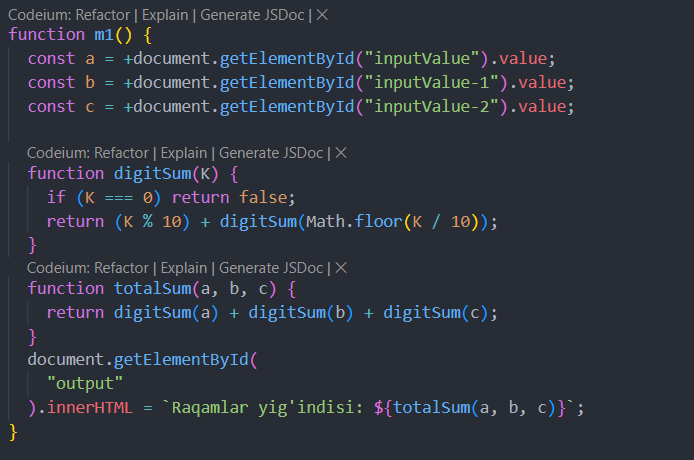
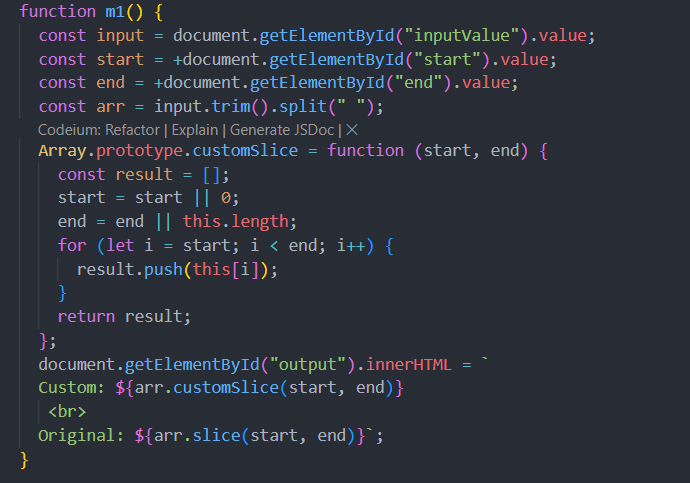
Done

diff --git a/index.html b/index.html
@@ -41,7 +41,6 @@
           <a href="#second">Second</a>
           <a href="#third">Third</a>
           <a href="#fourth">Fourth</a>
- 
         </nav>
         <div class="btns button-85">
           <a
@@ -60,15 +59,13 @@
       <section id="first">
         <div id="content">
           <h2 class="limited-line">
-            <span>Recur10.</span>. K sonining raqamlar yig'indisini takrorlanish
-            operatoridan foydalanmagan holda hisoblovchi butun toifadagi
-            DigitSum(K) rekursiv funksiyasi tuzilsin. Shu funksiya yordamida
-            berilgan 3 ta butun sonning raqamlari yig'indisi topilsin.
+            <span>Masala1.</span>Arrayga yana custom metod qo'shing. Vazifasi
+            Array.slice bilan bir xil bo'lsin. Custom yozilishi shart.
           </h2>
           <br />
-          <input id="inputValue" type="number" placeholder="1 - son" />
-          <input id="inputValue-1" type="number" placeholder="2 - son" />
-          <input id="inputValue-2" type="number" placeholder="3 - son" />
+          <input id="inputValue" type="text" placeholder="Ex: Hi there hello" />
+          <input id="start" type="text" placeholder="start" />
+          <input id="end" type="text" placeholder="end" />
           <button class="button-85" role="button" onclick="m1()">
             Hisoblash
           </button>
@@ -92,13 +89,11 @@
       <section id="second">
         <div id="content">
           <h2 class="limited-line">
-            <span>Masala-2 </span>
-            Fibonachi sonlari ketma-ketligidagining N - elementni hisoblovchi
-            butun toifadagi Fib1(N) rekursiv funksiya tuzilsin (N butun son): F
-            * 1 = F * 2 = 1 , FK FK-2+FK-1, K = 3, 4
+            <span>Masala2. </span>
+            Arrayni ichidagi juft sonlarni qaytaradigan metod qo'shing
           </h2>
           <br />
-          <input id="inputValue2" type="number" placeholder="Ex: 7" />
+          <input id="inputValue2" type="text" placeholder="Ex: 7" />
           <button class="button-85" role="button" onclick="m2()">
             Hisoblash
           </button>
@@ -122,16 +117,11 @@
       <section id="third">
         <div id="content">
           <h2 class="limited-line">
-            <span>Recur1. </span>N! = 1 ^ pi * 2 ^ pi ...*N faktorialni
-            hisoblovchi haqiqiy toifadagi Fact(N) rekursiv funksiyasi tuzilsin.
-            (N > 0 butun toifadagi parameter ). Shu funksiya yordamida berilgan
-            3 ta sonning faktoriallari hisoblansin. 
+            <span>Masala3. </span>. Objectni to'liq ismi va u haqida bor
+            ma'lumotlarni chiqaradigan getter yarating, objectdagi 3 ta asosiy
+            ma'lumotlarni o'zgartiradigan setter yarating
           </h2>
           <br />
-
-          <input id="inputValue3" type="number" placeholder="Ex: 3 4 5 8 9" />
-          <input id="inputValue3-1" type="number" placeholder="Ex: 3 4 5 8 9" />
-          <input id="inputValue3-2" type="number" placeholder="Ex: 3 4 5 8 9" />
 
           <button class="button-85" role="button" onclick="m3()">
             Hisoblash
@@ -156,42 +146,39 @@
           alt=""
         />
       </section>
-      <section id="fourth">
-        <div id="content">
-          <h2 class="limited-line">
-            <span>Recur1. </span>N! = 1 ^ pi * 2 ^ pi ...*N faktorialni
-            hisoblovchi haqiqiy toifadagi Fact(N) rekursiv funksiyasi tuzilsin.
-            (N > 0 butun toifadagi parameter ). Shu funksiya yordamida berilgan
-            3 ta sonning faktoriallari hisoblansin. 
-          </h2>
+      <section style="width: 70%; flex-direction: column;"  id="fourth">
+        <div  style="width: 100%; text-align: start !important;" id="content">
+          <h2 style="margin-bottom: 5px;" class="limited-line"><span>1-savol. </span> 11 * 12 = ?</h2>
+          <input id="s1" type="number" placeholder="Javobingizni kiriting" />
           <br />
-
-          <input id="inputValue3" type="number" placeholder="Ex: 3 4 5 8 9" />
-          <input id="inputValue3-1" type="number" placeholder="Ex: 3 4 5 8 9" />
-          <input id="inputValue3-2" type="number" placeholder="Ex: 3 4 5 8 9" />
-
-          <button class="button-85" role="button" onclick="m3()">
+          <br />
+          <h2 style="margin-bottom: 5px;" class="limited-line"><span>2-savol. </span> sqrt(9) = ?</h2>
+          <input id="s2" type="number" placeholder="Javobingizni kiriting" />
+          <br />
+          <br />
+          <h2 style="margin-bottom: 5px;" class="limited-line"><span>3-savol. </span> 0.1 + 0.2 = ?</h2>
+          <input id="s3" type="number" placeholder="Javobingizni kiriting" />
+          <br />
+          <br />
+          <h2 style="margin-bottom: 5px;" class="limited-line"><span>4-savol. </span> JavaScript nechanchi yilda chiqarilgan?</h2>
+          <input id="s4" type="number" placeholder="Javobingizni kiriting" />
+          <br />
+          <br />
+          <h2 style="margin-bottom: 5px;" class="limited-line"><span>5-savol. </span> HTML nechanchi yilda chiqarilgan?</h2>
+          <input id="s5" type="number" placeholder="Javobingizni kiriting" />
+          <br />
+          <br />
+          <button style="margin-top: 20px;" class="button-85" role="button" onclick="m4()">
             Hisoblash
           </button>
-
-          <div
-            class="output"
-            style="text-align: start; padding: 10px"
-            id="output3"
-          >
-            <p>Output</p>
-          </div>
+          <div class="output" id="output4"></div>
         </div>
-        <img
-          class="code"
-          style="
-            width: 45%;
-            border-radius: 10px;
-            box-shadow: 0 0 10px rgba(0, 0, 0, 0.5);
-          "
-          src="./images/Screenshot_3.png"
-          alt=""
-        />
+        <img  
+        style="
+          width: 90%;
+          border-radius: 10px;
+          box-shadow: 0 0 10px rgba(0, 0, 0, 0.5);
+        " src="./images/Screenshot_4.png" alt="">
       </section>
       <div class="swiper mySwiper">
         <h1>Let's review a little Array Methods.</h1>
@@ -320,7 +307,6 @@
           <a href="#first">First</a>
           <a href="#second">Second</a>
           <a href="#third">Third</a>
-
         </nav>
       </div>
       <p>&copy; 2024 JavaScript Algorithms by Mr.Abdulloh.</p>

diff --git a/app.js b/app.js
@@ -1,49 +1,86 @@
 function m1() {
-  const a = +document.getElementById("inputValue").value;
-  const b = +document.getElementById("inputValue-1").value;
-  const c = +document.getElementById("inputValue-2").value;
-
-  function digitSum(K) {
-    if (K === 0) return false;
-    return (K % 10) + digitSum(Math.floor(K / 10));
-  }
-  function totalSum(a, b, c) {
-    return digitSum(a) + digitSum(b) + digitSum(c);
-  }
-  document.getElementById(
-    "output"
-  ).innerHTML = `Raqamlar yig'indisi: ${totalSum(a, b, c)}`;
+  const input = document.getElementById("inputValue").value;
+  const start = +document.getElementById("start").value;
+  const end = +document.getElementById("end").value;
+  const arr = input.trim().split(" ");
+  Array.prototype.customSlice = function (start, end) {
+    const result = [];
+    start = start || 0;
+    end = end || this.length;
+    for (let i = start; i < end; i++) {
+      result.push(this[i]);
+    }
+    return result;
+  };
+  document.getElementById("output").innerHTML = `
+  Custom: ${arr.customSlice(start, end)}
+   <br>
+  Original: ${arr.slice(start, end)}`;
 }
 
 function m2() {
-  const n = +document.getElementById("inputValue2").value;
-  function Fib1(n) {
-    if (n === 1 || n === 2) return 1;
-    return Fib1(n - 2) + Fib1(n - 1); 
-  }
+  const input = document.getElementById("inputValue2").value;
+  const arr = input.trim().split(" ").map(Number);
+  Array.prototype.even = function () {
+    const result = [];
 
-  document.getElementById(
-    "output2"
-  ).innerHTML = `Fibonachining ${n}-elementi: ${Fib1(n)}`;
+    for (let i = 0; i < this.length; i++) {
+      if (this[i] % 2 === 0) {
+        result.push(this[i]);
+      }
+    }
+    return result;
+  };
+  document.getElementById("output2").innerHTML = `
+    Juft sonlar: [${arr.even()}]
+`;
 }
 
 function m3() {
-  const num1 = +document.getElementById("inputValue3").value;
-  const num2 = +document.getElementById("inputValue3-1").value;
-  const num3 = +document.getElementById("inputValue3-2").value;
-  function Fact(N) {
-    if (N === 1 || N === 0) return 1; 
-    return N * Fact(N - 1); 
-  }
-  const fact1 = Fact(num1);
-  const fact2 = Fact(num2);
-  const fact3 = Fact(num3);
-  document.getElementById("output3").innerHTML = `
-    ${num1}! = ${fact1} <br>
-    ${num2}! = ${fact2} <br>
-    ${num3}! = ${fact3}
-  `;
+  const person = {
+    firstName: "John",
+    lastName: "Doe",
+    age: 25,
+    job: "Developer",
+    country: "USA",
+    get info() {
+      return `Name: ${this.firstName} ${this.lastName},
+       <br> Age: ${this.age},
+       <br> Job: ${this.job}, 
+       <br> Country: ${this.country}`;
+    },
+    set change({ firstName, lastName, age }) {
+      if (firstName) this.firstName = firstName;
+      if (lastName) this.lastName = lastName;
+      if (age) this.age = age;
+    },
+  };
+  document.getElementById(
+    "output3"
+  ).innerHTML = `<span>GET:</span> ${person.info} <br> <br>`;
+  person.change = { firstName: "Jane", lastName: "Smith", age: 30 };
+  document.getElementById(
+    "output3"
+  ).innerHTML += `<span>SET:</span> ${person.info}`;
 }
+
+function m4() {
+  const j1 = +document.getElementById("s1").value;
+  const j2 = +document.getElementById("s2").value;
+  const j3 = +document.getElementById("s3").value;
+  const j4 = +document.getElementById("s4").value;
+  const j5 = +document.getElementById("s5").value;
+  let correctCount = 0;
+  if (j1 === 132) correctCount++;
+  if (j2 === 3) correctCount++;
+  if (j3 === 0.3) correctCount++;
+  if (j4 === 1995) correctCount++;
+  if (j5 === 1993) correctCount++;
+  document.getElementById(
+    "output4"
+  ).innerHTML = `Sizning javoblaringiz: ${correctCount}/5. Sizning baho: ${correctCount}.`;
+}
+
 
 
 // SOME FUNCTION -=-=-=-=-=-=-=-=-=-=-=-=-=-=-=-=-=-=-=-=-=-=-=-=-=-=-=-=-=-=-=-=-=-

diff --git a/style.css b/style.css
@@ -281,6 +281,8 @@ button:hover {
   display: flex;
   transition: all 0.3s ease-in-out;
   align-items: center;
+  flex-wrap: wrap;
+  flex-direction: column;
   justify-content: center;
   text-shadow: 1px 1px 2px rgba(0, 0, 0, 0.7);
 }
